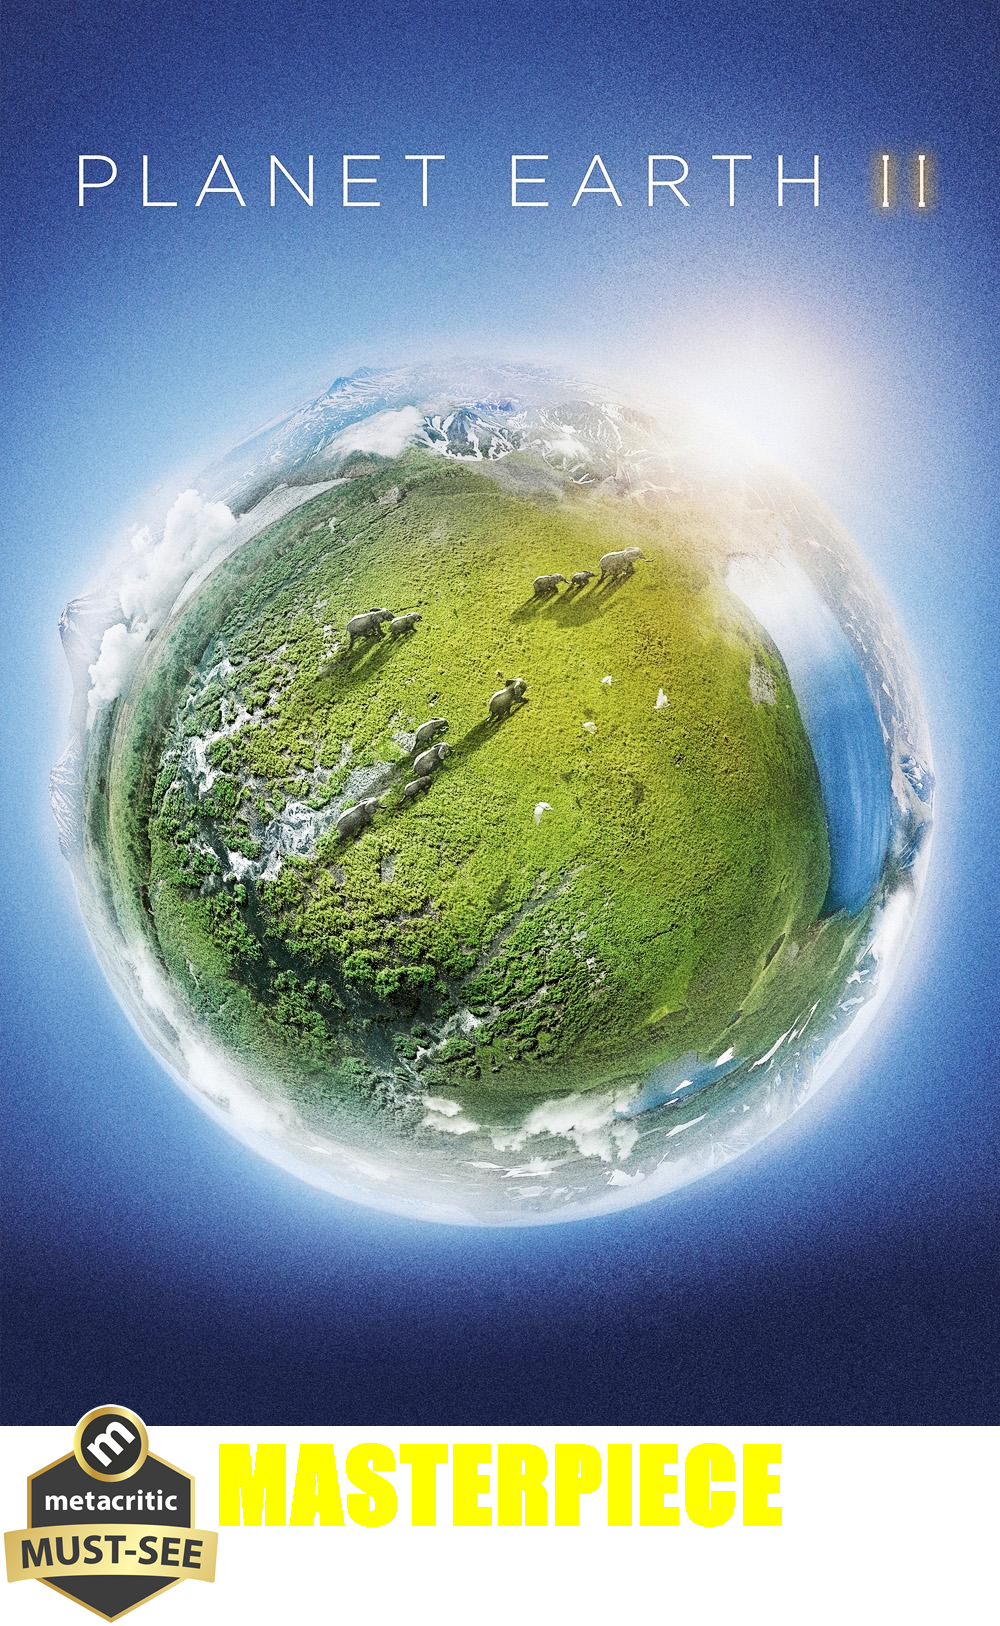
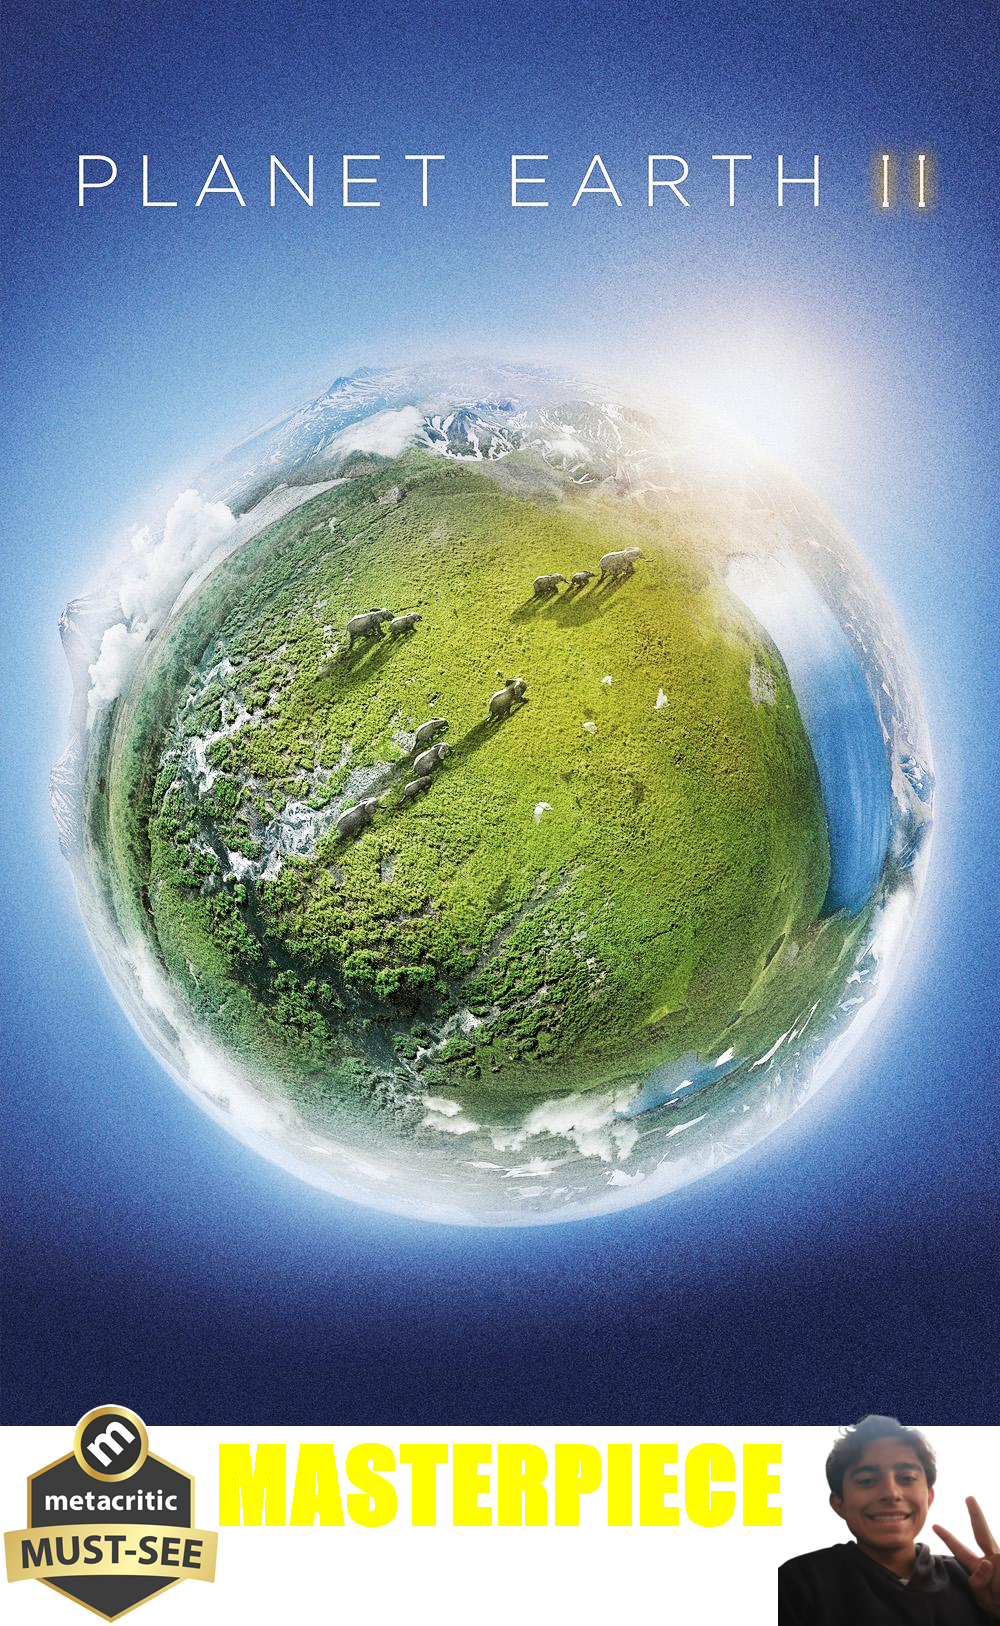
terminando o dia 2

Changed region(s): [[0.775, 0.861, 1.0, 1.0]]

diff --git a/src/GeradorStickers.java b/src/GeradorStickers.java
@@ -1,9 +1,14 @@
+import java.awt.BasicStroke;
 import java.awt.Color;
 import java.awt.Font;
 import java.awt.FontMetrics;
 import java.awt.Graphics2D;
+import java.awt.Shape;
+import java.awt.geom.AffineTransform;
 import java.awt.geom.Rectangle2D;
 import java.awt.image.BufferedImage;
+import java.awt.font.FontRenderContext;
+import java.awt.font.TextLayout;
 import java.io.File;
 import java.io.InputStream;
 import java.net.URL;
@@ -15,7 +20,7 @@ public class GeradorStickers {
   public GeradorStickers() {
   }
 
-  public void criar(String urlImagem, String nomeFilme, String fraseAdicionada, InputStream imagemAvaliacao) throws Exception{
+  public void criar(String urlImagem, String nomeFilme, String fraseAdicionada, InputStream imagemAvaliacao, InputStream imagemPedro, Color cor) throws Exception{
 
     // Passando a imagem para URL
     URL urlImagemURL =  new URL(urlImagem);
@@ -35,10 +40,11 @@ public class GeradorStickers {
     
     // Criando sobreposicao
     BufferedImage imagemSobreposicao = ImageIO.read(imagemAvaliacao);
+    BufferedImage imagemNotaPedro = ImageIO.read(imagemPedro);
     // Escrever frase na imagem
     // Configurando fonta
     var fonte = new Font("impact", Font.BOLD, 100);
-    graphics.setColor(Color.YELLOW);
+    graphics.setColor(cor);
     graphics.setFont(fonte);
 
     // Juntando imagem e texto
@@ -50,12 +56,31 @@ public class GeradorStickers {
 
     graphics.drawString(texto, posicaoTexto, novaAltura - 100);
     graphics.drawImage(imagemSobreposicao,  0, novaAltura - imagemSobreposicao.getHeight(), null);
+    graphics.drawImage(imagemNotaPedro,  imagemOriginal.getWidth() - imagemNotaPedro.getWidth(), novaAltura - imagemSobreposicao.getHeight(), null);
+
+
+    // Fazendo Outline
+    FontRenderContext fontRendererContext = graphics.getFontRenderContext();
+    var textLayout = new TextLayout(texto, fonte, fontRendererContext);
+
+    Shape outline = textLayout.getOutline(null);
+    AffineTransform transform = graphics.getTransform();
+    transform.translate(posicaoTexto, novaAltura - 100);
+    graphics.setTransform(transform);
+
+    BasicStroke outlineStroke = new BasicStroke(largaura * 0.004f);
+    graphics.setStroke(outlineStroke);
+
+    graphics.setColor(Color.BLACK);
+    graphics.draw(outline);
+    graphics.setClip(outline);
 
     // Escrever em arquivo
     nomeFilme = nomeFilme.replaceAll(":", "");
     ImageIO.write(novaImagem, "png", new File("saida/" + nomeFilme + ".png"));
 
   }
+
   
  // public static void main(String[] args) throws Exception {
     //GeradorStickers geradorStickers = new GeradorStickers();

diff --git a/src/App.java b/src/App.java
@@ -1,3 +1,4 @@
+import java.awt.Color;
 import java.io.File;
 import java.io.FileInputStream;
 import java.io.InputStream;
@@ -53,13 +54,16 @@ public class App {
                 GeradorStickers geradorStickers = new GeradorStickers();
                 if(notaEmDouble >= 9){
                     InputStream imagemAvaliacao = new FileInputStream(new File("sobreposicao/masterpeca.png"));
-                    geradorStickers.criar(filme.get("image"), filme.get("title"), "MASTERPIECE", imagemAvaliacao);
+                    InputStream imagemPedro = new FileInputStream(new File("sobreposicao/aprovado.png"));
+                    geradorStickers.criar(filme.get("image"), filme.get("title"), "MASTERPIECE", imagemAvaliacao, imagemPedro, Color.GREEN);
                 } else if(notaEmDouble <= 9 && notaEmDouble >= 8.7){
                     InputStream imagemAvaliacao = new FileInputStream(new File("sobreposicao/bom.png"));
-                    geradorStickers.criar(filme.get("image"), filme.get("title"), "BOM CONTEUDO", imagemAvaliacao);
+                    InputStream imagemPedro = new FileInputStream(new File("sobreposicao/naMedia.png"));
+                    geradorStickers.criar(filme.get("image"), filme.get("title"), "BOM CONTEUDO", imagemAvaliacao, imagemPedro, Color.BLUE);
                 } else{
                     InputStream imagemAvaliacao = new FileInputStream(new File("sobreposicao/ruim.png"));
-                    geradorStickers.criar(filme.get("image"), filme.get("title"), "UMA MERDA", imagemAvaliacao);
+                    InputStream imagemPedro = new FileInputStream(new File("sobreposicao/umCoco.jpg"));
+                    geradorStickers.criar(filme.get("image"), filme.get("title"), "UMA MERDA", imagemAvaliacao, imagemPedro, Color.RED);
                 }
             } else{
                 throw new RuntimeException("Opção Inexistente");
